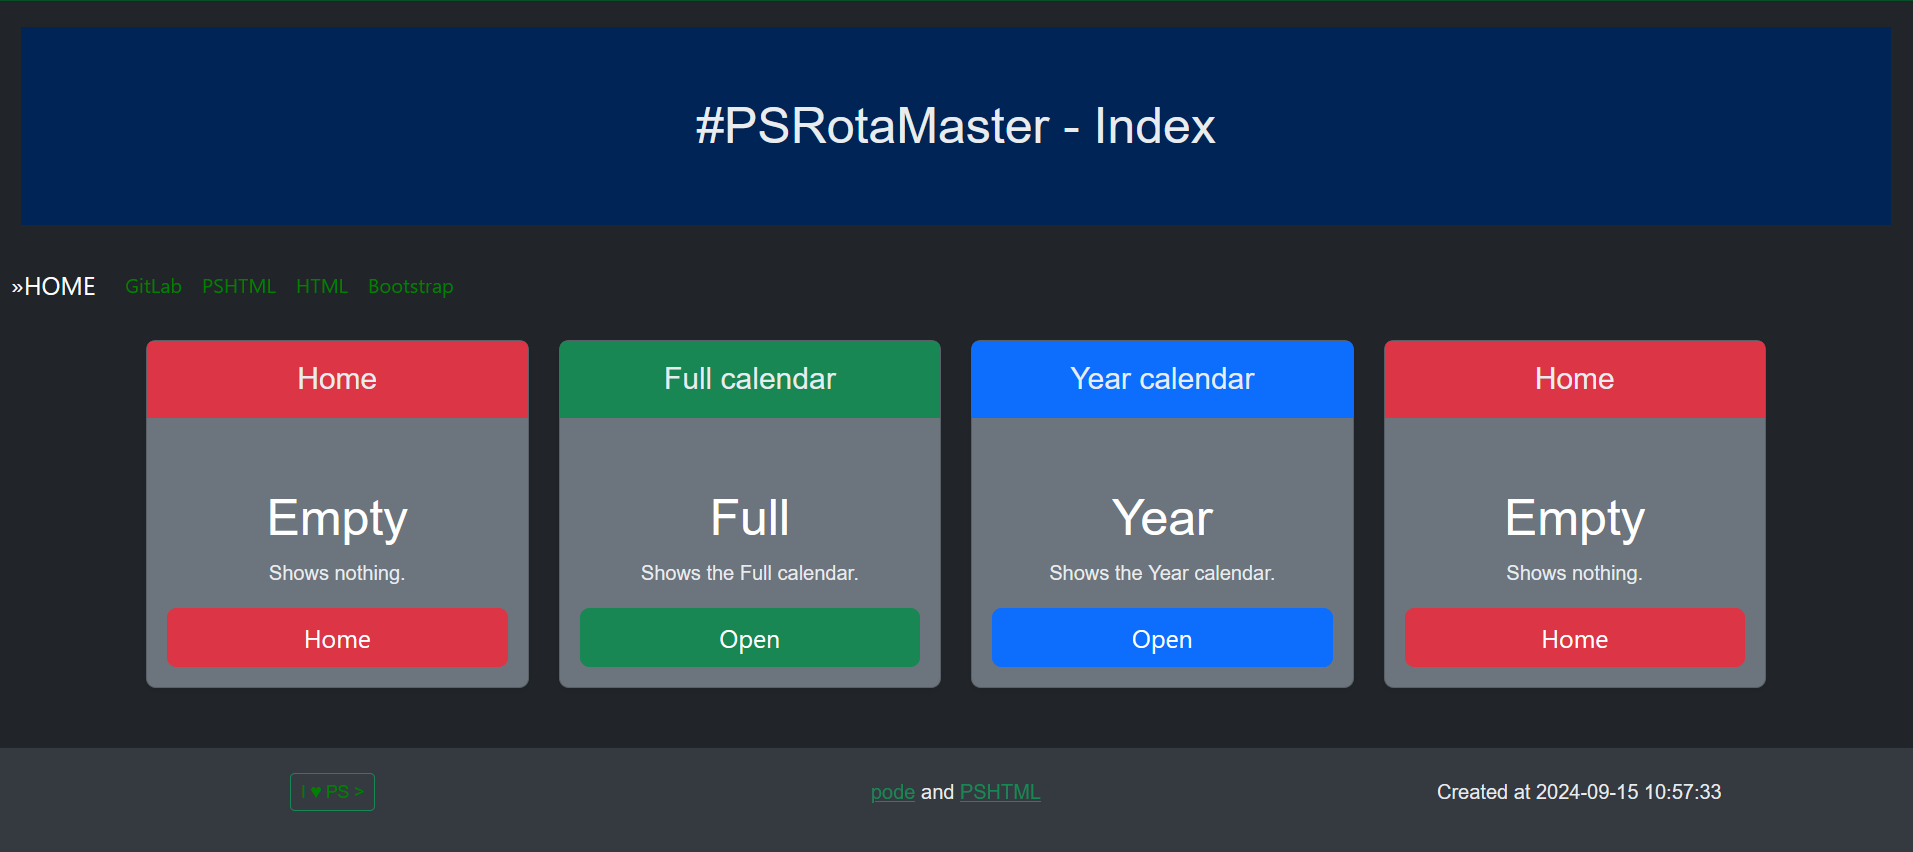
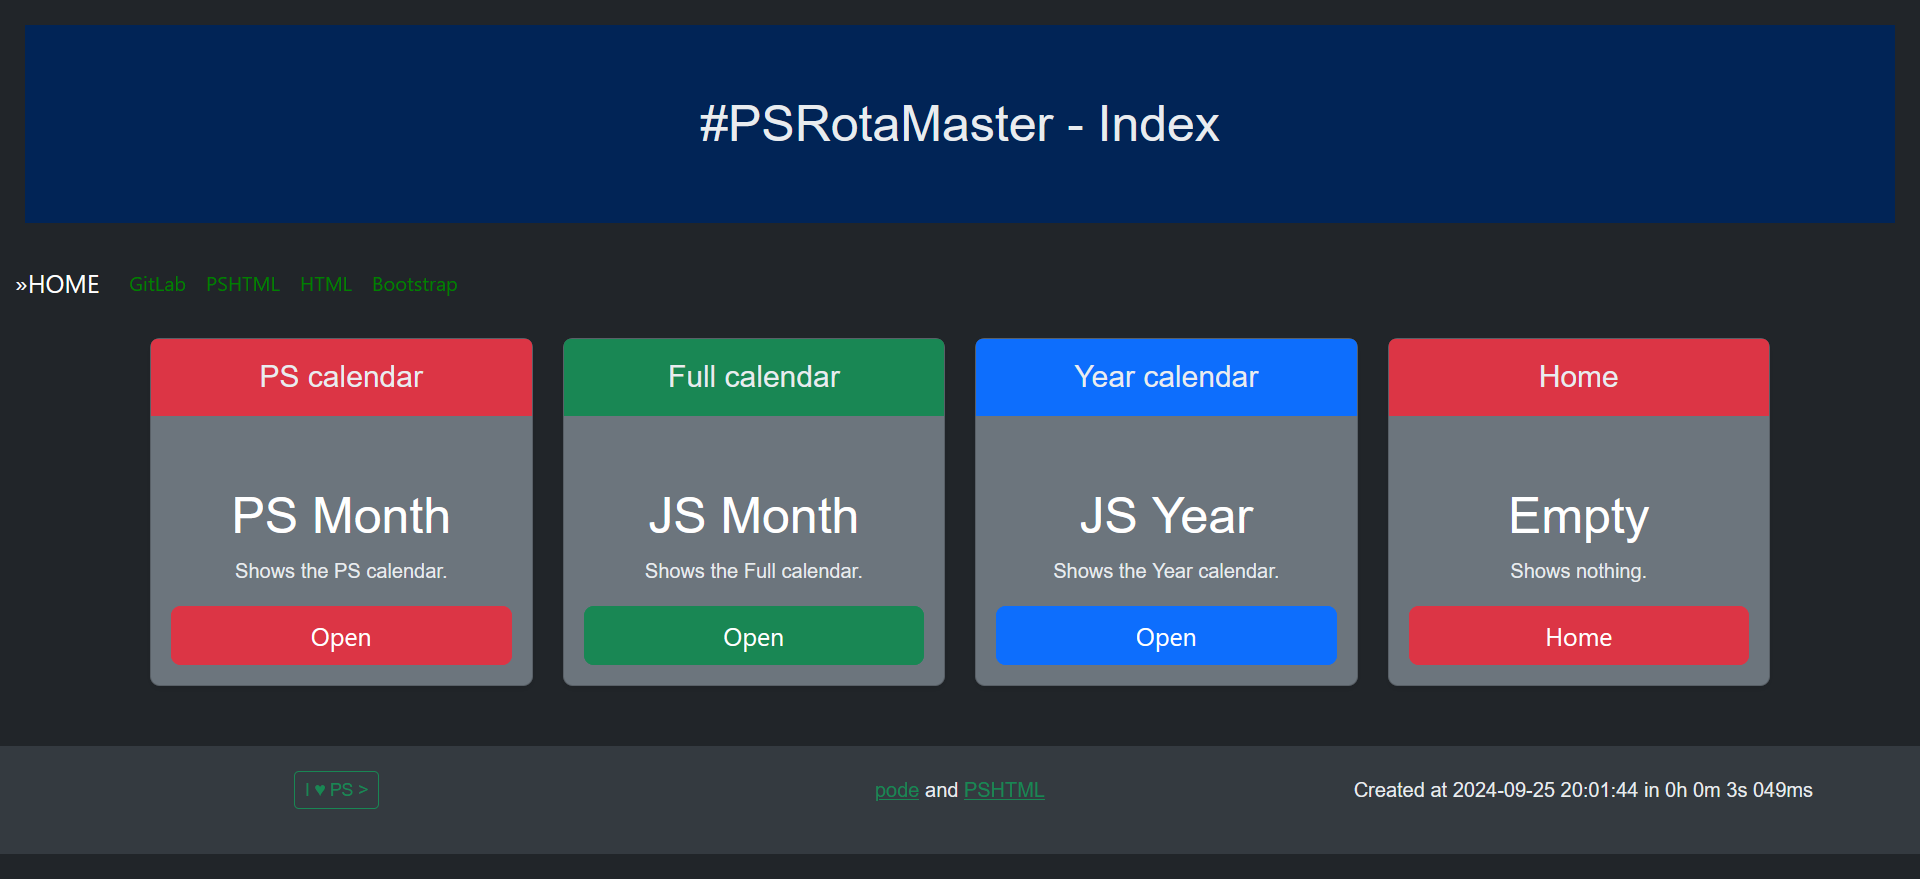
Update

diff --git a/README.md b/README.md
@@ -4,6 +4,10 @@ Absence and Duty Planer for Teams built on Pode, based on Prompting ChatGPT. May
 
 ![PSRotaMasterIndex](./public/img/PSRotaMasterIndex.png)
 
+## PS calendar view
+
+![PSRotaMasterPSMonth](./public/img/PSRotaMasterPSMonth.png)
+
 ## Full calendar view
 
 ![PSRotaMasterIndex](./public/img/PSRotaMasterFull.png)
